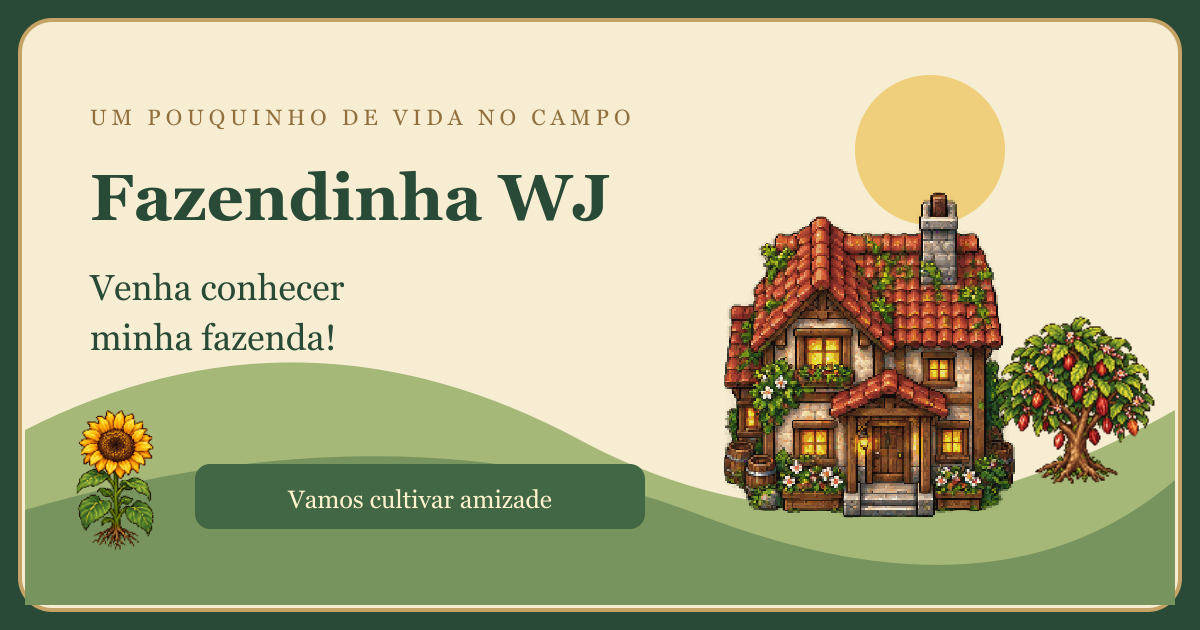
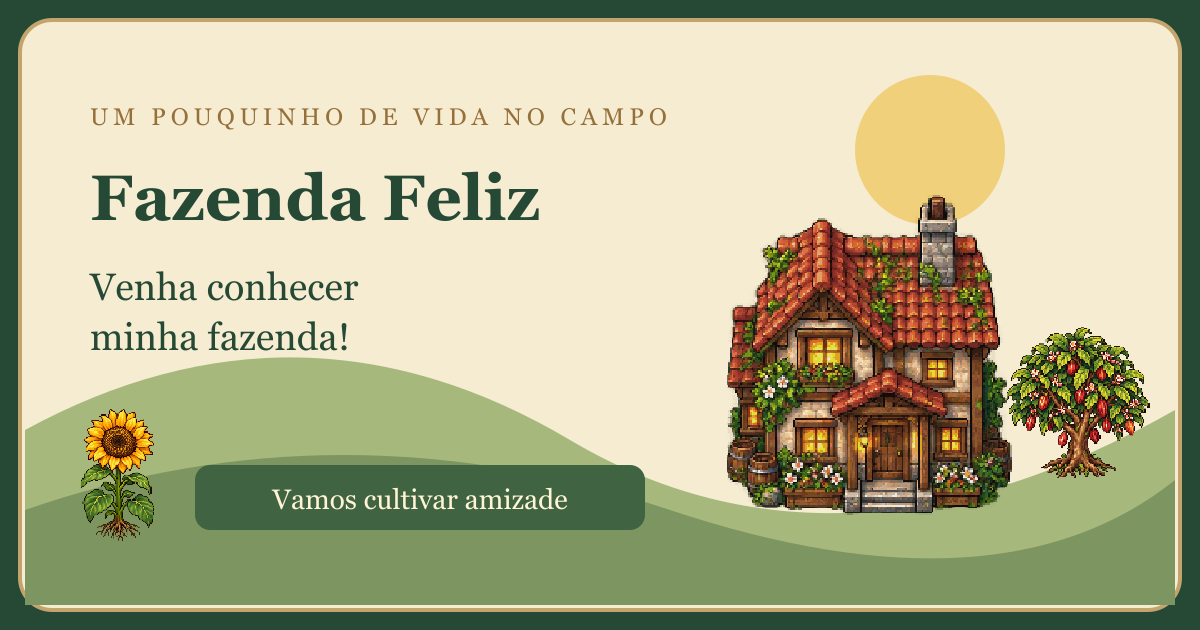
Padroniza marca pública como Fazenda Feliz

diff --git a/src/online-ui.ts b/src/online-ui.ts
@@ -58,13 +58,13 @@ export function setupOnlineUI(cloud:CloudFarm,open:(title:string,html:string)=>v
     if(!preserveScroll)open('Amigos',`<p id="online-feedback" role="status">Abrindo a porteira dos vizinhos…</p>`);
     try{
       const data=await cloud.request('?community=1&friendsOnly=1') as {friends:Friend[];blocked:{code:string;name:string}[];market:Listing[];referrals?:{completed:number;pending:number;earned:number;verificationPending:boolean}};
-      open('Amigos',`<section class="invitation-card"><img src="/assets/v29/invite.png" alt="Um convite ao vale" style="width:100%;border-radius:16px"/><h3>Venha conhecer minha fazenda!</h3><p>Um convite de <b>${esc(cloud.name)}</b> · Fazendinha WJ</p><p>Ganhe <b>${REFERRAL_REWARD.toLocaleString('pt-BR')} moedas</b> por novo cadastro concluído com e-mail confirmado pelo seu convite.</p><label class="farm-form">Seu convite<input id="invite-link" readonly value="${esc(location.origin+'/convite/'+cloud.code)}" /></label><button id="share-invite" class="primary">Compartilhar convite</button><button class="secondary" id="copy-invite">Copiar convite</button><p class="quiet-note">${data.referrals?.completed??0} cadastros confirmados · ${data.referrals?.earned??0} moedas recebidas${data.referrals?.pending?' · '+data.referrals.pending+' aguardando confirmação':''}</p>${data.referrals?.verificationPending?'<p>Seu convite está registrado. Entre com Google ou confirme o e-mail para liberar a recompensa do seu amigo.</p><button id="verify-invite-email" class="secondary">Confirmar meu e-mail</button>':''}</section><button class="secondary" id="refresh-friends">Atualizar amigos</button><p>Seu código: <strong class="friend-code">${esc(cloud.code)}</strong></p><form id="friend-form" class="farm-form inline-form"><label>Código de um amigo<input name="code" minlength="10" maxlength="10" required autocapitalize="characters" /></label><button class="secondary">Adicionar</button></form><p id="online-feedback" role="status" aria-live="polite"></p><h3>Seus vizinhos</h3>${data.friends.length?data.friends.map(f=>`<div class="item-row friend-row"><div class="item-info"><strong>${esc(f.name)}</strong><small>${esc(f.code)} · ${f.accepted?'Amigos':f.incoming?'Quer ser seu amigo':'Pedido enviado'}</small></div><div class="friend-actions">${f.accepted?`<button data-visit="${f.code}">Visitar</button><button data-animal-health="${f.code}">Saúde dos animais</button><button data-chat="${f.code}">Conversar</button><details class="friend-options"><summary>Opções</summary><button data-friend-action="unfriend" data-code="${f.code}">Remover amizade</button><button data-friend-action="block" data-code="${f.code}">Bloquear</button></details>`:f.incoming?`<button data-accept="${f.code}">Aceitar</button><button data-friend-action="decline" data-code="${f.code}">Recusar</button>`:`<button data-friend-action="cancel-friend" data-code="${f.code}">Cancelar pedido</button>`}</div></div>`).join(''):'<p>Convide alguém pelo código para visitar sua fazenda.</p>'}${data.blocked?.length?`<details><summary>Contatos bloqueados</summary>${data.blocked.map(f=>`<div class="item-row"><span>${esc(f.name)}</span><button data-friend-action="unblock" data-code="${f.code}">Desbloquear</button></div>`).join('')}</details>`:''}`);
+      open('Amigos',`<section class="invitation-card"><img src="/assets/brand/invite-fazenda-feliz.png" alt="Um convite ao vale" style="width:100%;border-radius:16px"/><h3>Venha conhecer minha fazenda!</h3><p>Um convite de <b>${esc(cloud.name)}</b> · Fazenda Feliz</p><p>Ganhe <b>${REFERRAL_REWARD.toLocaleString('pt-BR')} moedas</b> por novo cadastro concluído com e-mail confirmado pelo seu convite.</p><label class="farm-form">Seu convite<input id="invite-link" readonly value="${esc(location.origin+'/convite/'+cloud.code)}" /></label><button id="share-invite" class="primary">Compartilhar convite</button><button class="secondary" id="copy-invite">Copiar convite</button><p class="quiet-note">${data.referrals?.completed??0} cadastros confirmados · ${data.referrals?.earned??0} moedas recebidas${data.referrals?.pending?' · '+data.referrals.pending+' aguardando confirmação':''}</p>${data.referrals?.verificationPending?'<p>Seu convite está registrado. Entre com Google ou confirme o e-mail para liberar a recompensa do seu amigo.</p><button id="verify-invite-email" class="secondary">Confirmar meu e-mail</button>':''}</section><button class="secondary" id="refresh-friends">Atualizar amigos</button><p>Seu código: <strong class="friend-code">${esc(cloud.code)}</strong></p><form id="friend-form" class="farm-form inline-form"><label>Código de um amigo<input name="code" minlength="10" maxlength="10" required autocapitalize="characters" /></label><button class="secondary">Adicionar</button></form><p id="online-feedback" role="status" aria-live="polite"></p><h3>Seus vizinhos</h3>${data.friends.length?data.friends.map(f=>`<div class="item-row friend-row"><div class="item-info"><strong>${esc(f.name)}</strong><small>${esc(f.code)} · ${f.accepted?'Amigos':f.incoming?'Quer ser seu amigo':'Pedido enviado'}</small></div><div class="friend-actions">${f.accepted?`<button data-visit="${f.code}">Visitar</button><button data-animal-health="${f.code}">Saúde dos animais</button><button data-chat="${f.code}">Conversar</button><details class="friend-options"><summary>Opções</summary><button data-friend-action="unfriend" data-code="${f.code}">Remover amizade</button><button data-friend-action="block" data-code="${f.code}">Bloquear</button></details>`:f.incoming?`<button data-accept="${f.code}">Aceitar</button><button data-friend-action="decline" data-code="${f.code}">Recusar</button>`:`<button data-friend-action="cancel-friend" data-code="${f.code}">Cancelar pedido</button>`}</div></div>`).join(''):'<p>Convide alguém pelo código para visitar sua fazenda.</p>'}${data.blocked?.length?`<details><summary>Contatos bloqueados</summary>${data.blocked.map(f=>`<div class="item-row"><span>${esc(f.name)}</span><button data-friend-action="unblock" data-code="${f.code}">Desbloquear</button></div>`).join('')}</details>`:''}`);
       $<HTMLFormElement>('friend-form').onsubmit=e=>{e.preventDefault();const form=e.currentTarget as HTMLFormElement;void run(form.querySelector('button')!,async()=>{const r=await cloud.command({type:'friend',code:String(new FormData(form).get('code')).trim().toUpperCase()});await community();status(r.message!);});};
       document.querySelectorAll<HTMLButtonElement>('[data-accept]').forEach(b=>b.onclick=()=>run(b,async()=>{await cloud.command({type:'accept',code:b.dataset.accept});await community();}));
       document.querySelectorAll<HTMLButtonElement>('[data-visit]').forEach(b=>b.onclick=()=>void visit(b.dataset.visit!));
       document.querySelectorAll<HTMLButtonElement>('[data-chat]').forEach(b=>b.onclick=()=>void chat(b.dataset.chat!));
       document.querySelectorAll<HTMLButtonElement>('[data-friend-action]').forEach(b=>b.onclick=()=>run(b,async()=>{if(['block','unfriend'].includes(b.dataset.friendAction!)&&!confirm(b.dataset.friendAction==='block'?'Bloquear este contato e encerrar a amizade?':'Remover esta amizade?'))return;const r=await cloud.command({type:b.dataset.friendAction,code:b.dataset.code});await community(r.message??'Concluído.');}));
-      $('share-invite').onclick=()=>{const url=$<HTMLInputElement>('invite-link').value;if(navigator.share)void navigator.share({title:'Fazendinha WJ',text:cloud.name+' convida: venha conhecer minha fazenda!',url}).catch(e=>{if(e.name!=='AbortError')status('Use Copiar convite para compartilhar.');});else $('copy-invite').click();};
+      $('share-invite').onclick=()=>{const url=$<HTMLInputElement>('invite-link').value;if(navigator.share)void navigator.share({title:'Fazenda Feliz',text:cloud.name+' convida: venha conhecer minha fazenda!',url}).catch(e=>{if(e.name!=='AbortError')status('Use Copiar convite para compartilhar.');});else $('copy-invite').click();};
       $('copy-invite').onclick=()=>void run($<HTMLButtonElement>('copy-invite'),async()=>{const input=$<HTMLInputElement>('invite-link');try{await navigator.clipboard.writeText(input.value);status('Convite copiado!');}catch{input.select();status('Selecione e copie seu convite.');}});
       if($('verify-invite-email'))$('verify-invite-email').onclick=()=>void verifyReferralEmail();
       $('refresh-friends').onclick=()=>void community();

diff --git a/api/invite.ts b/api/invite.ts
@@ -1,3 +1,3 @@
 import{pool}from'../server/db.js';
 const esc=(s:string)=>s.replace(/[&<>"']/g,c=>({'&':'&amp;','<':'&lt;','>':'&gt;','"':'&quot;',"'":'&#39;'}[c]!));
-export async function GET(request:Request){const code=new URL(request.url).searchParams.get('code');if(!code||!/^[A-Z0-9]{10}$/.test(code))return new Response('Convite inválido',{status:404});const row=(await pool.query(`SELECT f.name FROM farms f JOIN neon_auth."user" u ON u.id::text=f.user_id WHERE public_code=$1 AND u.banned IS NOT TRUE AND COALESCE((state->>'profileComplete')::boolean,true)`,[code])).rows[0];if(!row)return new Response('Convite não encontrado',{status:404});const name=esc(String(row.name).slice(0,40)),origin=request.url.includes('fazendinha-wj-mp-test')?'https://fazendinha-wj-mp-test.vercel.app':'https://fazendinha-wj.vercel.app',title=name+' convida você para Fazendinha WJ',url=origin+'/convite/'+code,image=origin+'/assets/v29/invite.png';return new Response(`<!doctype html><html lang="pt-BR"><head><meta charset="utf-8"><meta name="viewport" content="width=device-width,initial-scale=1"><title>${title}</title><meta name="description" content="Venha conhecer minha fazenda! Cuide da horta, conheça os animais e faça amigos na Fazendinha WJ."><meta property="og:title" content="${title}"><meta property="og:description" content="Venha conhecer minha fazenda! Um cantinho acolhedor para cultivar amizade."><meta property="og:type" content="website"><meta property="og:url" content="${url}"><meta property="og:image" content="${image}"><meta property="og:image:width" content="1200"><meta property="og:image:height" content="630"><meta name="twitter:card" content="summary_large_image"><style>body{margin:0;background:#203d31;color:#294a35;font:18px Georgia,serif;display:grid;min-height:100vh;place-items:center}main{max-width:700px;margin:24px;background:#faf2dc;border:3px solid #b99b5f;border-radius:26px;overflow:hidden;text-align:center;box-shadow:0 20px 60px #0005}img{width:100%;display:block}section{padding:24px 30px 36px}h1{font-size:36px}a,button{display:inline-block;background:#416744;color:#fff5d7;border:1px solid #c0a568;border-radius:12px;padding:16px 24px;text-decoration:none;font:inherit;cursor:pointer}p{line-height:1.6}small{display:block;margin-top:20px}</style></head><body><main><img src="/assets/v29/invite.png" alt="Fazendinha WJ, um convite para cultivar amizade"><section><p>Um convite de <b>${name}</b></p><h1>Venha conhecer minha fazenda!</h1><p>Tem lugar para você no nosso vale. Vamos cuidar das plantas, conhecer os animais e cultivar boas histórias juntos?</p><a href="/?ref=${code}">Entrar na Fazendinha WJ</a><small>Entre na conta ou crie seu personagem. O convite acompanha sua chegada.</small></section></main></body></html>`,{headers:{'Content-Type':'text/html; charset=utf-8','Cache-Control':'public,max-age=300','X-Content-Type-Options':'nosniff'}});}
+export async function GET(request:Request){const code=new URL(request.url).searchParams.get('code');if(!code||!/^[A-Z0-9]{10}$/.test(code))return new Response('Convite inválido',{status:404});const row=(await pool.query(`SELECT f.name FROM farms f JOIN neon_auth."user" u ON u.id::text=f.user_id WHERE public_code=$1 AND u.banned IS NOT TRUE AND COALESCE((state->>'profileComplete')::boolean,true)`,[code])).rows[0];if(!row)return new Response('Convite não encontrado',{status:404});const name=esc(String(row.name).slice(0,40)),origin=request.url.includes('fazendinha-wj-mp-test')?'https://fazendinha-wj-mp-test.vercel.app':'https://fazendinha-wj.vercel.app',title=name+' convida você para Fazenda Feliz',url=origin+'/convite/'+code,image=origin+'/assets/brand/invite-fazenda-feliz.png';return new Response(`<!doctype html><html lang="pt-BR"><head><meta charset="utf-8"><meta name="viewport" content="width=device-width,initial-scale=1"><title>${title}</title><meta name="description" content="Venha conhecer minha fazenda! Cuide da horta, conheça os animais e faça amigos na Fazenda Feliz."><meta property="og:title" content="${title}"><meta property="og:description" content="Venha conhecer minha fazenda! Um cantinho acolhedor para cultivar amizade."><meta property="og:type" content="website"><meta property="og:url" content="${url}"><meta property="og:image" content="${image}"><meta property="og:image:width" content="1200"><meta property="og:image:height" content="630"><meta name="twitter:card" content="summary_large_image"><style>body{margin:0;background:#203d31;color:#294a35;font:18px Georgia,serif;display:grid;min-height:100vh;place-items:center}main{max-width:700px;margin:24px;background:#faf2dc;border:3px solid #b99b5f;border-radius:26px;overflow:hidden;text-align:center;box-shadow:0 20px 60px #0005}img{width:100%;display:block}section{padding:24px 30px 36px}h1{font-size:36px}a,button{display:inline-block;background:#416744;color:#fff5d7;border:1px solid #c0a568;border-radius:12px;padding:16px 24px;text-decoration:none;font:inherit;cursor:pointer}p{line-height:1.6}small{display:block;margin-top:20px}</style></head><body><main><img src="/assets/brand/invite-fazenda-feliz.png" alt="Fazenda Feliz, um convite para cultivar amizade"><section><p>Um convite de <b>${name}</b></p><h1>Venha conhecer minha fazenda!</h1><p>Tem lugar para você no nosso vale. Vamos cuidar das plantas, conhecer os animais e cultivar boas histórias juntos?</p><a href="/?ref=${code}">Entrar na Fazenda Feliz</a><small>Entre na conta ou crie seu personagem. O convite acompanha sua chegada.</small></section></main></body></html>`,{headers:{'Content-Type':'text/html; charset=utf-8','Cache-Control':'public,max-age=300','X-Content-Type-Options':'nosniff'}});}

diff --git a/index.html b/index.html
@@ -4,15 +4,15 @@
   <meta charset="UTF-8" />
   <meta name="viewport" content="width=device-width,initial-scale=1,viewport-fit=cover" />
   <meta name="theme-color" content="#203c30" />
-  <meta name="description" content="Uma pequena fazenda, um novo começo. Explore, plante e colha no protótipo original da Fazendinha WJ." />
-  <title>Fazendinha WJ · Um novo começo</title>
+  <meta name="description" content="Uma pequena fazenda, um novo começo. Explore, plante e colha na Fazenda Feliz." />
+  <title>Fazenda Feliz · Um novo começo</title>
   <link rel="manifest" href="/manifest.webmanifest" />
   <link rel="apple-touch-icon" href="/icons/icon-192.png" />
   <link rel="icon" type="image/svg+xml" href="/favicon.svg" />
 </head>
 <body>
-  <div class="loading" id="loading" role="status"><div class="loading-card"><span>WJ TECNOLOGIA</span><strong>Vale do Sossego</strong><p>Abrindo as porteiras do vale… <b id="loading-percent">0%</b></p><div class="loading-sprout">✦</div></div></div>
-  <section id="journey" class="journey" aria-label="Boas-vindas à Fazendinha" hidden></section>
+  <div class="loading" id="loading" role="status"><div class="loading-card"><span>FAZENDA FELIZ</span><strong>Vale do Sossego</strong><p>Abrindo as porteiras do vale… <b id="loading-percent">0%</b></p><div class="loading-sprout">✦</div></div></div>
+  <section id="journey" class="journey" aria-label="Boas-vindas à Fazenda Feliz" hidden></section>
   <div id="game" aria-label="Mapa da fazenda"></div>
   <header class="hud" aria-label="Recursos e menu">
     <div class="hud-right"><div class="balance" aria-label="Moedas"><span class="coin" aria-hidden="true">●</span><strong id="coins">250</strong></div><button class="menu-toggle" id="menu-toggle" aria-label="Menu da fazenda" aria-haspopup="dialog" aria-controls="game-menu" aria-expanded="false">☰</button></div>
@@ -45,16 +45,16 @@
   <div class="touch-controls"><div id="joystick" aria-label="Controle de movimento"><div id="joystick-knob"></div></div><button id="touch-action" aria-label="Usar ferramenta">Usar</button></div>
   <dialog id="game-menu" class="game-menu" aria-label="Menu da fazenda">
     <div class="menu-heading"><strong>Minha fazenda</strong><button id="close-menu" aria-label="Fechar menu">×</button></div>
-    <div class="farm-card"><span class="farm-mark">WJ</span><div><span class="eyebrow">SEU CANTINHO NO CAMPO</span><h1>Fazendinha <span>WJ</span></h1><div class="season"><span class="sun">☀</span> <span id="season-label">Primavera</span> <span>·</span> <span id="day-label">Um novo começo</span></div></div></div>
+    <div class="farm-card"><span class="farm-mark">FF</span><div><span class="eyebrow">SEU CANTINHO NO CAMPO</span><h1>Fazenda <span>Feliz</span></h1><div class="season"><span class="sun">☀</span> <span id="season-label">Primavera</span> <span>·</span> <span id="day-label">Um novo começo</span></div></div></div>
     <div class="menu-actions" data-menu-actions>
   <div class="online-bar" id="online-bar" hidden><button id="life-menu">Minha fazenda</button><button id="care-alert">Cuidados</button><button id="progression">Nível 1</button><button id="community">Amigos</button><button id="install-app" hidden>Instalar</button></div>
       <button id="store">Loja · moedas, roupas e fertilizantes</button><button class="account-button" id="account">Conta</button><button id="help">Como jogar</button><button id="music-settings">Música e volume</button><button id="frame-rate">Desempenho</button>
     </div>
   <aside class="quest-card" id="quest-card"><span class="eyebrow">SEU PRIMEIRO CAPÍTULO</span><h2>Da terra à mesa</h2><p id="quest-text">Colha sua primeira plantação.</p><div class="quest-bottom"><span id="quest-progress">0 / 1 colheita</span><span>+75 moedas</span></div><div class="quest-track"><div id="quest-fill"></div></div></aside>
     <footer><span><i id="save-dot"></i><span id="save-status">Salvo neste aparelho</span></span><span class="desktop-tip">WASD / setas para andar <b>·</b> E para interagir</span><span class="signature">feito para desacelerar.</span></footer>
-  <div class="world-label"><span class="live-dot"></span> <span id="world-place">VALE DO SOSSEGO</span> <small>vida no vale · v0.57.6</small></div>
+  <div class="world-label"><span class="live-dot"></span> <span id="world-place">VALE DO SOSSEGO</span> <small>vida no vale · v0.57.7</small></div>
   </dialog>
-  <dialog id="panel"><div class="panel-top"><span class="eyebrow" id="panel-eyebrow">FAZENDINHA WJ</span><button id="close-panel" aria-label="Fechar janela">×</button></div><div id="panel-content"></div></dialog>
+  <dialog id="panel"><div class="panel-top"><span class="eyebrow" id="panel-eyebrow">FAZENDA FELIZ</span><button id="close-panel" aria-label="Fechar janela">×</button></div><div id="panel-content"></div></dialog>
   <script type="module" src="/src/main.ts"></script>
 </body>
 </html>

diff --git a/src/welcome.ts b/src/welcome.ts
@@ -3,4 +3,4 @@ export function welcomeDestination(options:{connected:boolean;complete:boolean;h
  if(options.connected)return options.complete?'farm':'profile';
  return 'welcome';
 }
-export function welcomeHTML(){return `<main class="welcome-card"><section class="welcome-story"><span class="welcome-kicker">SEU CANTINHO NO CAMPO</span><h1><span>Bem-vindo à</span>Fazenda<br><em>Feliz</em></h1><p>Plante suas histórias.<br>Colha novas amizades.</p><div class="welcome-landscape" aria-hidden="true"><div class="welcome-sun"></div><div class="welcome-hill back"></div><div class="welcome-hill"></div><img class="welcome-tree" src="/assets/v2/tree1.png" alt=""><img class="welcome-house" src="/assets/v2/house.png" alt=""><span class="welcome-flower">✦</span><span class="welcome-flower second">✦</span></div><span class="welcome-signature">FEITO PARA DESACELERAR · WJ TECNOLOGIA</span></section><section class="welcome-login"><span class="welcome-sprout" aria-hidden="true">🌱</span><h2>Sua fazenda espera por você</h2><p>Entre com sua conta e continue seu cantinho no celular ou no computador.</p><button class="primary google-login" id="journey-google"><span class="google-letter" aria-hidden="true">G</span> Entrar com Google / Gmail</button><p id="journey-feedback" role="status" aria-live="polite"></p><details class="journey-email"><summary>Outras formas de entrar</summary><form class="farm-form" id="journey-email-form"><label>E-mail<input name="email" type="email" autocomplete="email" required></label><label>Senha<input name="password" type="password" minlength="8" maxlength="128" autocomplete="current-password" required></label><button class="secondary" type="submit">Entrar com e-mail</button><button class="journey-link" id="journey-signup" type="button">Criar conta com e-mail</button></form></details><button class="journey-link" id="welcome-profile">Primeira vez? Criar conta e escolher personagem</button><p class="welcome-note">Seu progresso acompanha sua conta.<br>Nas próximas visitas, entramos direto quando sua sessão estiver ativa.</p></section></main>`;}
+export function welcomeHTML(){return `<main class="welcome-card"><section class="welcome-story"><span class="welcome-kicker">SEU CANTINHO NO CAMPO</span><h1><span>Bem-vindo à</span>Fazenda<br><em>Feliz</em></h1><p>Plante suas histórias.<br>Colha novas amizades.</p><div class="welcome-landscape" aria-hidden="true"><div class="welcome-sun"></div><div class="welcome-hill back"></div><div class="welcome-hill"></div><img class="welcome-tree" src="/assets/v2/tree1.png" alt=""><img class="welcome-house" src="/assets/v2/house.png" alt=""><span class="welcome-flower">✦</span><span class="welcome-flower second">✦</span></div><span class="welcome-signature">FEITO PARA DESACELERAR</span></section><section class="welcome-login"><span class="welcome-sprout" aria-hidden="true">🌱</span><h2>Sua fazenda espera por você</h2><p>Entre com sua conta e continue seu cantinho no celular ou no computador.</p><button class="primary google-login" id="journey-google"><span class="google-letter" aria-hidden="true">G</span> Entrar com Google / Gmail</button><p id="journey-feedback" role="status" aria-live="polite"></p><details class="journey-email"><summary>Outras formas de entrar</summary><form class="farm-form" id="journey-email-form"><label>E-mail<input name="email" type="email" autocomplete="email" required></label><label>Senha<input name="password" type="password" minlength="8" maxlength="128" autocomplete="current-password" required></label><button class="secondary" type="submit">Entrar com e-mail</button><button class="journey-link" id="journey-signup" type="button">Criar conta com e-mail</button></form></details><button class="journey-link" id="welcome-profile">Primeira vez? Criar conta e escolher personagem</button><p class="welcome-note">Seu progresso acompanha sua conta.<br>Nas próximas visitas, entramos direto quando sua sessão estiver ativa.</p></section></main>`;}

diff --git a/src/journey.ts b/src/journey.ts
@@ -15,7 +15,7 @@ export function setupJourney(s:Services){
  function feedback(message:string){const el=document.getElementById('journey-feedback');if(el)el.textContent=message;}
  function show(){root.classList.remove('welcome-screen');root.hidden=false;document.body.classList.add('journey-open');s.block(true);render();}
  function enter(){const ref=invitation();if(ref)sessionStorage.setItem('wj-pending-friend',ref);clearInvitation();editRequested=false;editReady=false;const url=new URL(location.href);if(url.searchParams.has('setup')){url.searchParams.delete('setup');history.replaceState(null,'',url);}root.classList.remove('welcome-screen');try{localStorage.setItem(WELCOME_DONE_KEY,'1');localStorage.removeItem(PROFILE_DRAFT_KEY);}catch{}root.hidden=true;root.replaceChildren();document.body.classList.remove('journey-open');s.block(false);s.entered();}
- function header(title:string){return `<div class="journey-brand">WJ TECNOLOGIA <span>VALE DO SOSSEGO</span></div>${s.cloud.active?`<ol class="journey-steps" aria-label="Sua chegada ao vale">${['Nome','Personagem','Confirmar'].map((n,i)=>`<li ${draft.step===i+1?'aria-current="step"':''}><span>${i+1}</span>${n}</li>`).join('')}</ol>`:''}<h1>${title}</h1>`;}
+ function header(title:string){return `<div class="journey-brand">FAZENDA FELIZ <span>VALE DO SOSSEGO</span></div>${s.cloud.active?`<ol class="journey-steps" aria-label="Sua chegada ao vale">${['Nome','Personagem','Confirmar'].map((n,i)=>`<li ${draft.step===i+1?'aria-current="step"':''}><span>${i+1}</span>${n}</li>`).join('')}</ol>`:''}<h1>${title}</h1>`;}
  async function run(work:()=>Promise<void>){if(busy)return;busy=true;root.querySelectorAll<HTMLButtonElement>('button').forEach(b=>b.disabled=true);try{await work();}catch(e){feedback((e as Error).message);}finally{busy=false;root.querySelectorAll<HTMLButtonElement>('button').forEach(b=>b.disabled=false);}}
  function render(){
   const start=draft.step===1?header('Como vamos chamar você?')+`<p>Seu nome vai acompanhar suas visitas e histórias no vale.</p><form id="journey-name-form" class="farm-form"><label>Nome do jogador<input name="playerName" maxlength="24" autocomplete="nickname" value="${esc(draft.name)}" placeholder="Seu nome no vale" required /></label><p id="journey-feedback" role="status" aria-live="polite"></p><button class="primary">Escolher personagem</button></form><button class="journey-link" id="returning-player">Já tenho uma fazenda · entrar na conta</button>`:

diff --git a/src/admin-ui.ts b/src/admin-ui.ts
@@ -13,7 +13,7 @@ import {STUDIO_KINDS,CAPABILITIES,type Definition} from './studio-schema';
 import './admin.css';
 const root=document.querySelector<HTMLDivElement>('#studio')!;
 function el<K extends keyof HTMLElementTagNameMap>(tag:K,label='',parent?:HTMLElement){const e=document.createElement(tag);e.textContent=label;(parent??document.querySelector('#studio main')??root).append(e);return e;}
-const heading=el('header');el('small','FAZENDINHA WJ · ACESSO RESTRITO',heading);el('h1','Central de criação',heading);el('a','Voltar ao jogo',heading).href='/';
+const heading=el('header');el('small','FAZENDA FELIZ · ACESSO RESTRITO',heading);el('h1','Central de criação',heading);el('a','Voltar ao jogo',heading).href='/';
 const status=el('p','Verificando sua conta…'),nav=el('nav'),body=el('main');let contentIndex:any[]=[];let pending=false;let screen=0;let cleanView=()=>{};function clear(){screen++;cleanView();cleanView=()=>{};body.replaceChildren();}
 async function request(view:string,body?:unknown){let token:string|null=null;try{token=await getAccessToken();}catch{}if(!token)throw Error('Entre no jogo com sua conta e volte a esta página.');const r=await fetch('/api/admin'+view,{method:body?'POST':'GET',headers:{Authorization:'Bearer '+token,...(body?{'Content-Type':'application/json'}:{})},body:body?JSON.stringify(body):undefined,cache:'no-store'});const data=await r.json();if(!r.ok)throw Error(data.error);return data;}
 function button(label:string,run:()=>unknown,parent:HTMLElement=body){const b=el('button',label,parent);b.onclick=()=>{if(pending)return;Promise.resolve().then(run).catch(e=>{status.textContent=e.message;status.scrollIntoView({block:'center'});});};return b;}

diff --git a/tests/invite-page.test.ts b/tests/invite-page.test.ts
@@ -1,2 +1,2 @@
 import test from'node:test';import assert from'node:assert/strict';import{GET}from'../api/invite';import{pool}from'../server/db';
-test('public invitation escapes player names and includes static social preview without credentials',async()=>{const original=pool.query;try{(pool as any).query=async()=>({rows:[{name:'<img src=x onerror=alert(1)>'}]});const r=await GET(new Request('https://fazendinha-wj-mp-test.vercel.app/api/invite?code=QAINVITE29'));assert.equal(r.status,200);const html=await r.text();assert.ok(html.includes('og:image'));assert.ok(html.includes('/assets/v29/invite.png'));assert.ok(html.includes('/?ref=QAINVITE29'));assert.ok(!html.includes('<img src=x'));assert.ok(html.includes('&lt;img'));assert.equal((await GET(new Request('https://farm.test/api/invite?code=invalid'))).status,404);}finally{pool.query=original;}});
+test('public invitation escapes player names and includes static social preview without credentials',async()=>{const original=pool.query;try{(pool as any).query=async()=>({rows:[{name:'<img src=x onerror=alert(1)>'}]});const r=await GET(new Request('https://fazendinha-wj-mp-test.vercel.app/api/invite?code=QAINVITE29'));assert.equal(r.status,200);const html=await r.text();assert.ok(html.includes('og:image'));assert.ok(html.includes('Fazenda Feliz'));assert.ok(!html.includes('Fazendinha WJ'));assert.ok(html.includes('/assets/brand/invite-fazenda-feliz.png'));assert.ok(html.includes('/?ref=QAINVITE29'));assert.ok(!html.includes('<img src=x'));assert.ok(html.includes('&lt;img'));assert.equal((await GET(new Request('https://farm.test/api/invite?code=invalid'))).status,404);}finally{pool.query=original;}});

diff --git a/src/pwa.ts b/src/pwa.ts
@@ -3,6 +3,6 @@ export function setupInstall(toast:(message:string)=>void) {
   const button=document.getElementById('install-app')!;
   window.addEventListener('beforeinstallprompt',(event:Event)=>{event.preventDefault();prompt=event;button.hidden=false;});
   button.onclick=async()=>{if(prompt){await prompt.prompt();prompt=null;button.hidden=true;}else toast('No Safari, toque em Compartilhar e Adicionar à Tela de Início.');};
-  window.addEventListener('appinstalled',()=>{button.hidden=true;toast('Fazendinha instalada!');});
+  window.addEventListener('appinstalled',()=>{button.hidden=true;toast('Fazenda Feliz instalada!');});
   if('serviceWorker' in navigator)window.addEventListener('load',()=>{void navigator.serviceWorker.register('/sw.js').catch(()=>{});});
 }

diff --git a/admin/index.html b/admin/index.html
@@ -1,1 +1,1 @@
-<!doctype html><html lang="pt-BR"><head><meta charset="UTF-8"><meta name="viewport" content="width=device-width,initial-scale=1"><title>Central de criação · Fazendinha WJ</title></head><body><div id="studio"></div><script type="module" src="/src/admin-ui.ts"></script></body></html>
+<!doctype html><html lang="pt-BR"><head><meta charset="UTF-8"><meta name="viewport" content="width=device-width,initial-scale=1"><title>Central de criação · Fazenda Feliz</title></head><body><div id="studio"></div><script type="module" src="/src/admin-ui.ts"></script></body></html>

diff --git a/README.md b/README.md
@@ -60,7 +60,7 @@ Atualização 0.11.0: iluminação mais clara, respiração com quadros próprio
 
 Correção 0.10.1: respiração contínua em pé, sentada e deitada, com progresso preservado.
 
-# Fazendinha WJ
+# Fazenda Feliz
 
 Versão 0.10.0 — Personagem senta, liga a TV e dorme na cama. Relógio com períodos do dia, estações e iluminação, salvo por fazenda. Detalhes em [TEMPO_E_CASA.md](docs/TEMPO_E_CASA.md).
 
@@ -162,4 +162,4 @@ A versão 0.2 integra sprites originais gerados para o projeto, personagem com 1
 
 Phaser 3.90, TypeScript e Vite. Phaser é distribuído sob licença MIT; as licenças das dependências continuam aplicáveis. As fontes DM Sans e Fraunces são carregadas do Google Fonts com alternativas locais; sem rede, a interface usa fontes do sistema. Futuramente, hospedar as fontes junto ao jogo.
 
-Código e desenhos originais desenvolvidos para WJ Tecnologia. A licença de distribuição do projeto ainda será definida pelo proprietário. A inspiração é de gênero e mecânicas; não há afiliação com os jogos citados.
+Código e desenhos originais desenvolvidos para Fazenda Feliz. A licença de distribuição do projeto ainda será definida pelo proprietário. A inspiração é de gênero e mecânicas; não há afiliação com os jogos citados.

diff --git a/docs/VALIDACAO.md b/docs/VALIDACAO.md
@@ -867,3 +867,10 @@ Adicionados corpos na base de jardineiras, vasos, pedras e decorações. Rotas e
 0.56.4 — reproduzido e corrigido sumiço visual do coelho autônomo na mudança de sala pelo relógio. Agora sai pela passagem e permanece durante cuidados/pausa. Caminhada completa e reencontro na casa conferidos em desktop/emulação móvel. Consulte docs/COELHO_AUTONOMO_0_56_4.md.
 
 0.57.0 — 442 testes e build; celeiro com câmera/placas estáveis, sujeira acima do piso, Limpeza, rações por espécie preservando estoque antigo, cuidados/roubo de plantações sem opt-out, brincadeira do coelho, quadros na parede e olhos no sono. Ensaios locais desktop/emulação móvel descritos em docs/CELEIRO_CUIDADOS_0_57_0.md.
+
+
+## 0.57.7 — Fazenda Feliz
+
+Nome público padronizado na abertura, interface, administração, instalação e convites. Identificadores de dados salvos, URLs, autenticação e pagamentos preservados. Sem migração ou alteração de progresso.
+
+Validação: 462 testes aprovados; build concluído; abertura conferida em 1280 e 390 pixels; imagem do convite revisada visualmente.

diff --git a/docs/ROADMAP.md b/docs/ROADMAP.md
@@ -507,3 +507,8 @@ Preparada publicação por R$ 15,00 via Pix/cartão; 366 testes e build aprovado
 0.56.4: continuidade visual das saídas de espécies criadas autônomas; propriedade, configuração e progresso preservados.
 
 0.57.0: rações específicas, mecânicas sociais padrão e polimento do celeiro/sono/coelho integrados sem substituir progresso. Ensaio físico continua pendente.
+
+
+## 0.57.7 — Fazenda Feliz
+
+Nome público padronizado na abertura, interface, administração, instalação e convites. Identificadores de dados salvos, URLs, autenticação e pagamentos preservados. Sem migração ou alteração de progresso.
